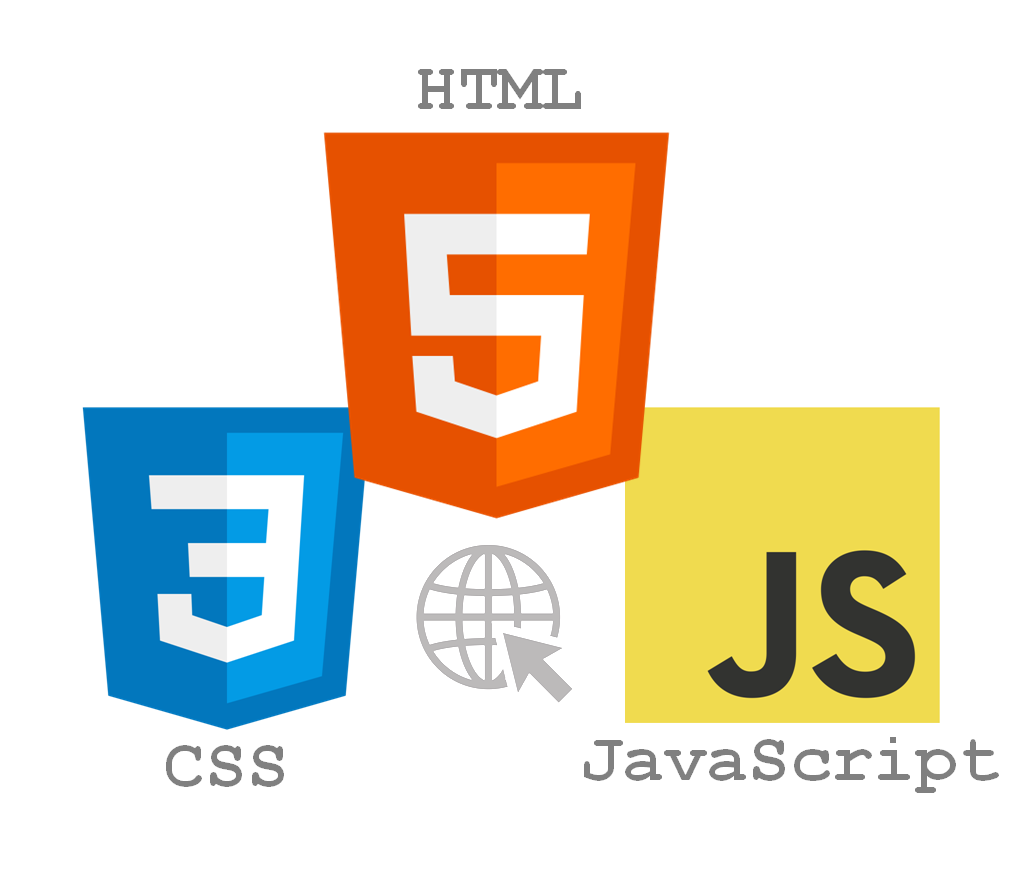
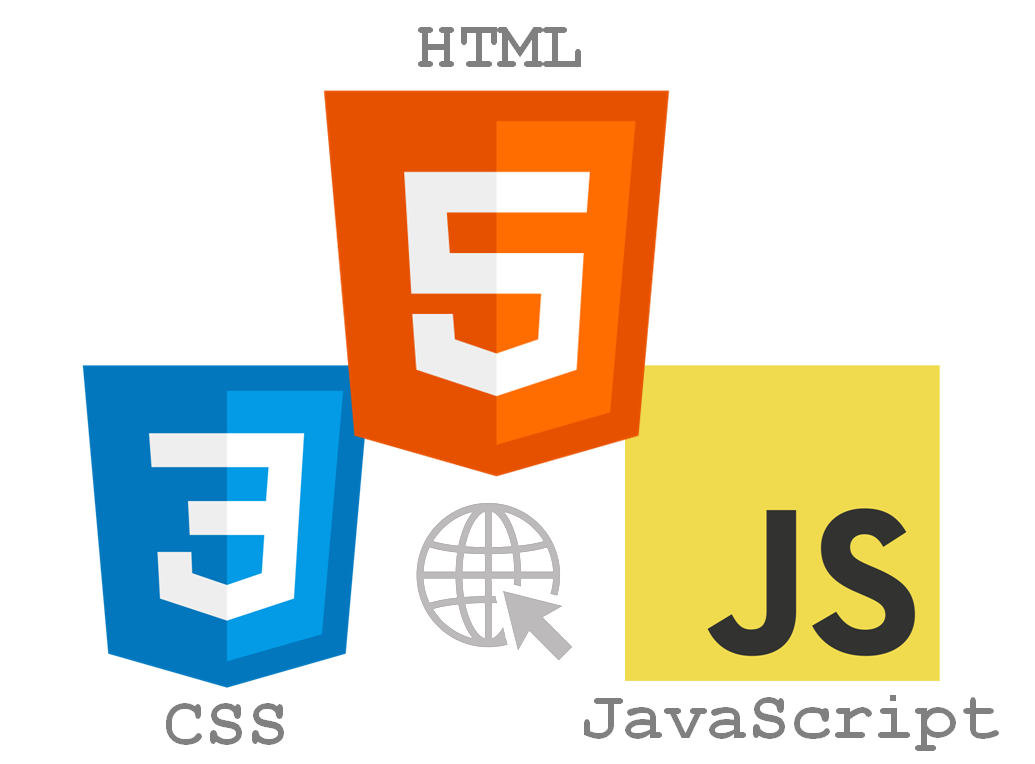
minicourses fixes

diff --git a/src/components/core/Eventos/ModalContent.tsx b/src/components/core/Eventos/ModalContent.tsx
@@ -5,6 +5,7 @@ import { Tooltip } from 'antd';
 import { GithubIcon } from '@/components/ui/icons';
 import { FaLinkedin, FaInstagram } from 'react-icons/fa6';
 import { IoMail } from 'react-icons/io5';
+import { Button } from '@/components/ui/button';
 
 interface ModalContentProps { minicourse: Minicurso; };
 const ModalContent: React.FC<ModalContentProps> = ({ minicourse }) => {
@@ -14,16 +15,20 @@ const ModalContent: React.FC<ModalContentProps> = ({ minicourse }) => {
                 <h1 className="text-3xl font-semibold">{minicourse.title}</h1>
                 <p className="ml-2 text-base tracking-wide text-justify hyphens-auto">{minicourse.description}</p>
             </div>
-            <div className="col-span-5">
-                <img src={minicourse.picture} alt={minicourse.title} className="w-full h-60" />
+            <div className="col-span-5 mt-10">
+                {minicourse.alternatePicture ? (
+                    <img src={minicourse.alternatePicture} alt={minicourse.title} className="w-full h-full rounded-md" />
+                ) : (
+                    <img src={minicourse.picture} alt={minicourse.title} className="w-full h-60 rounded-md" />
+                )}
             </div>
             <div className="col-span-12 mt-7">
                 {minicourse.prerequesites && minicourse.prerequesites.length > 0 ? (
                     <>
                         <h3 className="text-lg font-semibold">Pré-requisitos:</h3>
-                        <ul>
+                        <ul className="list-disc">
                             {minicourse.prerequesites.map((prerequisite, index) => (
-                                <li key={index} className="ml-2 text-base tracking-wide">{prerequisite}</li>
+                                <li key={index} className="ml-8 text-base tracking-wide">{prerequisite}</li>
                             ))}
                         </ul>
                     </>
@@ -31,20 +36,30 @@ const ModalContent: React.FC<ModalContentProps> = ({ minicourse }) => {
                     <h3 className="text-lg font-semibold">Não há pré-requisitos</h3>
                 )}
             </div>
-            <div className="col-span-12 mt-7 mx-3">
+            <div className="col-span-12 mt-7 flex justify-end mr-[7.5rem]">
+                <Button
+                    variant="default"
+                    size="lg"
+                    className="bg-sky-400 hover:bg-sky-500"
+                >
+                    Inscreva-se
+                </Button>
+            </div>
+            <div className="col-span-12 mx-3">
+                <div className="border-t border-gray-300 my-6"></div>
                 {minicourse.palestrantes.length > 1 ? (
                     <div className="flex gap-12 font-mono tracking-tighter">
                         <div className="flex flex-col w-1/2">
                             <div className="flex gap-4">
-                                <Avatar size="xlarge">
+                                <Avatar size="large">
                                     <AvatarImage src={minicourse.palestrantes[0].picture} alt={minicourse.palestrantes[0].name} />
                                     <AvatarFallback>None</AvatarFallback>
                                 </Avatar>
                                 <div className="flex flex-col">
-                                    <h3 className="text-lg ml-1">{minicourse.palestrantes[0].name}</h3>
+                                    <h3 className="text-base ml-1 font-semibold">{minicourse.palestrantes[0].name}</h3>
                                     {minicourse.palestrantes[0].bio.length > 114 ? (
                                         <Tooltip title={minicourse.palestrantes[0].bio}>
-                                            <p className="line-clamp-3 text-justify hyphens-auto">{minicourse.palestrantes[0].bio}</p>
+                                            <p className="line-clamp-3 text-justify hyphens-auto text-sm">{minicourse.palestrantes[0].bio}</p>
                                         </Tooltip>
                                     ) : (
                                         <p className="line-clamp-3 text-justify hyphens-auto">{minicourse.palestrantes[0].bio}</p>
@@ -58,19 +73,16 @@ const ModalContent: React.FC<ModalContentProps> = ({ minicourse }) => {
                         <div className="flex flex-col w-1/2">
                             <div className="flex gap-4">
                                 <div className="flex flex-col">
-                                    <h3 className="text-lg ml-1">{minicourse.palestrantes[1].name}</h3>
+                                    <h3 className="text-base ml-1 font-semibold">{minicourse.palestrantes[1].name}</h3>
                                     {minicourse.palestrantes[1].bio.length > 114 ? (
-                                        <Tooltip
-                                            title={minicourse.palestrantes[1].bio}
-                                            className="custom-tooltip"
-                                        >
-                                            <p className="line-clamp-3 text-justify hyphens-auto">{minicourse.palestrantes[1].bio}</p>
+                                        <Tooltip title={minicourse.palestrantes[1].bio} >
+                                            <p className="line-clamp-3 text-justify hyphens-auto text-sm">{minicourse.palestrantes[1].bio}</p>
                                         </Tooltip>
                                     ) : (
                                         <p className="line-clamp-3 text-justify hyphens-auto">{minicourse.palestrantes[1].bio}</p>
                                     )}
                                 </div>
-                                <Avatar size="xlarge">
+                                <Avatar size="large">
                                     <AvatarImage src={minicourse.palestrantes[1].picture} alt={minicourse.palestrantes[1].name} />
                                     <AvatarFallback>None</AvatarFallback>
                                 </Avatar>
@@ -81,22 +93,24 @@ const ModalContent: React.FC<ModalContentProps> = ({ minicourse }) => {
                         </div>
                     </div>
                 ) : (
-                    <div className="flex gap-4 font-mono tracking-tighter">
-                        <Avatar size="xlarge">
-                            <AvatarImage src={minicourse.palestrantes[0].picture} alt={minicourse.palestrantes[0].name} />
-                            <AvatarFallback>None</AvatarFallback>
-                        </Avatar>
-                        <div className="flex flex-col">
-                            <h3 className="text-lg ml-1">{minicourse.palestrantes[0].name}</h3>
-                            {minicourse.palestrantes[0].bio.length > 114 && minicourse.palestrantes.length > 1 ? (
-                                <Tooltip title={minicourse.palestrantes[0].bio}>
-                                    <p className="line-clamp-3 text-justify hyphens-auto">{minicourse.palestrantes[0].bio}</p>
-                                </Tooltip>
-                            ) : (
-                                <p className="line-clamp-3 text-justify hyphens-auto">{minicourse.palestrantes[0].bio}</p>
-                            )}
+                    <div className="flex flex-col gap-4 font-mono tracking-tighter">
+                        <div className="flex gap-4">
+                            <Avatar size="large">
+                                <AvatarImage src={minicourse.palestrantes[0].picture} alt={minicourse.palestrantes[0].name} />
+                                <AvatarFallback>None</AvatarFallback>
+                            </Avatar>
+                            <div className="flex flex-col">
+                                <h3 className="text-base font-semibold ml-1">{minicourse.palestrantes[0].name}</h3>
+                                {minicourse.palestrantes[0].bio.length > 114 && minicourse.palestrantes.length > 1 ? (
+                                    <Tooltip title={minicourse.palestrantes[0].bio}>
+                                        <p className="line-clamp-3 text-justify hyphens-auto">{minicourse.palestrantes[0].bio}</p>
+                                    </Tooltip>
+                                ) : (
+                                    <p className="line-clamp-3 text-justify hyphens-auto text-sm">{minicourse.palestrantes[0].bio}</p>
+                                )}
+                            </div>
                         </div>
-                        <div className="flex items-center mx-3 ml-12">
+                        <div className="flex justify-center items-center mx-3 ml-12">
                             <SocialMediaShowcase social={minicourse.palestrantes[0].social} />
                         </div>
                     </div>
@@ -112,22 +126,22 @@ const SocialMediaShowcase: React.FC<SocialMediaProps> = ({ social }) => {
         <div className="flex justify-center gap-10">
             {social?.github && (
                 <a href={social.github} target="_blank" rel="noreferrer">
-                    <GithubIcon size={30} />
+                    <GithubIcon size={25} />
                 </a>
             )}
             {social?.linkedin && (
                 <a href={social.linkedin} target="_blank" rel="noreferrer">
-                    <FaLinkedin size={30} />
+                    <FaLinkedin size={25} />
                 </a>
             )}
             {social?.instagram && (
                 <a href={social.instagram} target="_blank" rel="noreferrer">
-                    <FaInstagram size={30} />
+                    <FaInstagram size={25} />
                 </a>
             )}
             {social?.email && (
                 <a href={`mailto:${social.email}`}>
-                    <IoMail size={30} />
+                    <IoMail size={25} />
                 </a>
             )}
         </div >

diff --git a/src/lib/data.ts b/src/lib/data.ts
@@ -6,7 +6,8 @@ const minicursos: Minicurso[] = [
         index: 0,
         title: "Desenvolvimento Web: HTML, CSS e JavaScript",
         alternateTitle: "Aprendendo HTML, CSS e JavaScript do básico e além",
-        picture: "/imagens-minicursos/htmlcssjavascript.png",
+        picture: "/imagens-minicursos/htmlcssjavascript2.jpg",
+        alternatePicture: "/imagens-minicursos/htmlcssjavascript.png",
         date: "05/06",
         tags: [
             {
@@ -52,6 +53,7 @@ const minicursos: Minicurso[] = [
         title: "Pré-Cálculo Computacional",
         alternateTitle: "Fundamentos de Exatas na Computação",
         picture: "/imagens-minicursos/pre-calc.jpg",
+        alternatePicture: "/imagens-minicursos/pre-calc2.jpg",
         date: "06/06",
         tags: [
             {
@@ -83,7 +85,8 @@ const minicursos: Minicurso[] = [
         index: 2,
         title: "Desenvolvimento Mobile com Flutter",
         alternateTitle: "Desenvolvimento para dispositivos móveis",
-        picture: "https://avatars.githubusercontent.com/u/50432692?v=4",
+        picture: "/imagens-minicursos/flutter.png",
+        alternatePicture: "/imagens-minicursos/flutter2.jpg",
         date: "05/06",
         tags: [
             {
@@ -129,7 +132,8 @@ const minicursos: Minicurso[] = [
         index: 3,
         title: "GameMaker Studio - Aprenda sobre a melhor engine de jogos 2D do mercado",
         alternateTitle: "Desenvolvimento de jogos com o motor gráfico GameMaker Studio",
-        picture: "https://avatars.githubusercontent.com/u/50432692?v=4",
+        picture: "/imagens-minicursos/gamemaker.jpg",
+        alternatePicture: "/imagens-minicursos/gamemaker2.jpg",
         date: "05/06",
         tags: [
             {
@@ -169,7 +173,8 @@ const minicursos: Minicurso[] = [
         index: 4,
         title: "Introdução ao Linux",
         alternateTitle: "Sistemas Operacionais baseados em Linux",
-        picture: "https://avatars.githubusercontent.com/u/50432692?v=4",
+        picture: "/imagens-minicursos/linux.jpg",
+        alternatePicture: "/imagens-minicursos/linux2.jpg",
         date: "06/06",
         tags: [
             {
@@ -199,7 +204,8 @@ const minicursos: Minicurso[] = [
         index: 5,
         title: "Introdução ao PHP com Laravel MVC",
         alternateTitle: "PHP com Laravel MVC e suas vantagens",
-        picture: "https://avatars.githubusercontent.com/u/50432692?v=4",
+        picture: "/imagens-minicursos/laravel.jpg",
+        alternatePicture: "/imagens-minicursos/laravel2.jpg",
         date: "06/06",
         tags: [
             {
@@ -236,7 +242,8 @@ const minicursos: Minicurso[] = [
         index: 6,
         title: "Introdução a automação em Python com PyAutoGUI",
         alternateTitle: "Automação em Python",
-        picture: "https://avatars.githubusercontent.com/u/50432692?v=4",
+        picture: "/imagens-minicursos/pyautogui.png",
+        alternatePicture: "/imagens-minicursos/pyautogui2.jpg",
         date: "05/06",
         tags: [
             {
@@ -268,7 +275,8 @@ const minicursos: Minicurso[] = [
         index: 7,
         title: "Introdução a robótica com Lego EV3",
         alternateTitle: "Conceitos iniciais de robótica e programação com Lego EV3 Scratch.",
-        picture: "https://avatars.githubusercontent.com/u/50432692?v=4",
+        picture: "/imagens-minicursos/lego.png",
+        alternatePicture: "/imagens-minicursos/lego2.png",
         date: "06/06",
         tags: [
             {
@@ -312,7 +320,8 @@ const minicursos: Minicurso[] = [
         index: 8,
         title: "Introdução a Linguagem R",
         alternateTitle: "Análise de dados com R",
-        picture: "https://avatars.githubusercontent.com/u/50432692?v=4",
+        picture: "/imagens-minicursos/r.png",
+        alternatePicture: "/imagens-minicursos/r2.jpg",
         date: "05/06",
         tags: [
             {
@@ -349,6 +358,46 @@ const minicursos: Minicurso[] = [
                 picture: "https://avatars.githubusercontent.com/u/50432692?v=4"
             }
         ]
+    },
+    {
+        index: 9,
+        title: "Introdução a React e TailwindCSS",
+        alternateTitle: "Desenvolvimento de interfaces web com React em typescript com TailwindCSS",
+        picture: "/imagens-minicursos/react.jpg",
+        alternatePicture: "/imagens-minicursos/react2.jpg",
+        date: "06/06",
+        tags: [
+            {
+                name: "framework",
+                color: "bg-blue-300",
+                index: 0
+            },
+            {
+                name: "front-end",
+                color: "bg-green-300",
+                index: 1
+            },
+            {
+                name: "web",
+                color: "bg-yellow-300",
+                index: 2
+            }
+        ],
+        description: "O minicurso de introdução ao React e TailwindCSS tem como objetivo apresentar os conceitos básicos de desenvolvimento de interfaces web com React em typescript e TailwindCSS. Serão abordados conceitos como componentização, estado, propriedades, hooks, estilização com TailwindCSS e consumo de APIs.",
+        prerequesites: [
+            "Conhecimento básico em programação",
+            "Conhecimento básico em HTML e CSS",
+            "Conhecimento básico em JavaScript (não obrigatório)"
+        ],
+        palestrantes: [
+            {
+                name: "Pedro Figueira Bôa-Viagem",
+                bio: "Estudante de Ciência da Computação e desenvolvedor front-end.",
+                social: {
+                    github: "https://github.com/PepeuFBV"
+                }
+            }
+        ],
     }
 ];
 
@@ -406,6 +455,6 @@ const FAQuestions: Faq = {
             answer: "Com certeza, após a realização da inscricão e participação no evento, suas horas serão contabilizadas no sistema. É possível também ganhar horas extras assistindo os minicursos!"
         }
     ]
-}
+};
 
 export { minicursos, palestra, FAQuestions }

diff --git a/src/app/eventos/minicursos/page.tsx b/src/app/eventos/minicursos/page.tsx
@@ -58,7 +58,7 @@ export default function Minicursos() {
                     </Button>
                 </div>
             </div>
-            <div className="grid grid-cols-3 mx-20 gap-8">
+            <div className="grid grid-cols-3 mx-20 mb-16 gap-8">
                 {minicursos.map((minicurso) => {
 
                     const [modalOpen, setModalOpen] = useState(false);

diff --git a/src/lib/definitions.ts b/src/lib/definitions.ts
@@ -3,6 +3,7 @@ export type Minicurso = {
     title: string;
     alternateTitle: string;
     picture: string;
+    alternatePicture?: string;
     date: string;
     tags?: {
         name: string;
